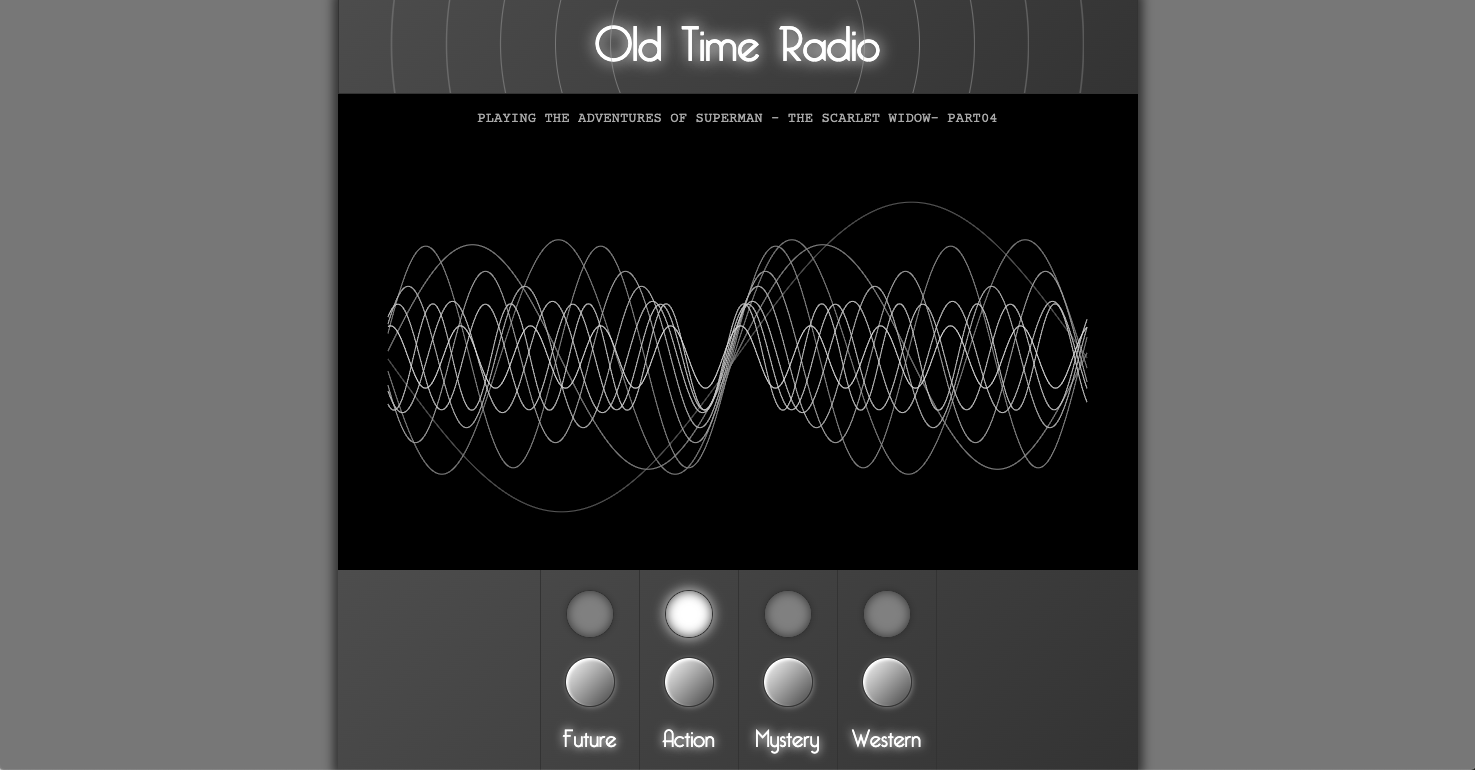
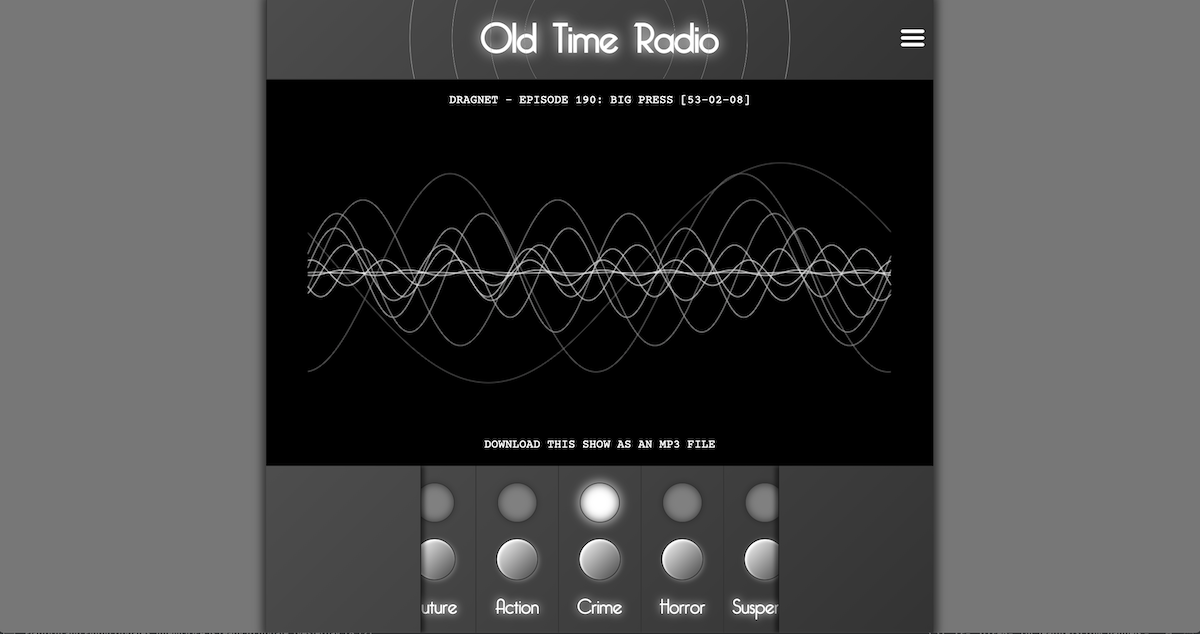
updates now we have scrolling channel list

diff --git a/README.md b/README.md
@@ -22,10 +22,6 @@ This allowed me to write some JavaScript to analyse the audio signal in real-tim
 
 * Channel Builder
     * Should we allow the user to name their channel? (how to handle long channel names, offensive words, script injection exploits)
-    * UI - how to include custom channels in channel list, current UI only just has room for 5 on mobile
-        * allow unlimited channels and re-think layout?
-        * keep max 5, replace predefined channels with custom ones
-        * when playing a custom channel we only show that one and hide other buttons
 * Low-CPU version
     * no animations, hide visualiser
 * Sleep timer
@@ -34,9 +30,9 @@ This allowed me to write some JavaScript to analyse the audio signal in real-tim
     * fade page to black
     * say goodnight
 * Spacebar should pause audio, second press should resume last station
+* Left/Right cursor keys should scroll channel list
 
 ## Bugs
-* User can add more than 5 custom channels which will break layout on small screens
 * Menu is ridiculously small on older phones with small screens
 * CSS rule for div height: 100% breaks some browser extensions
 
